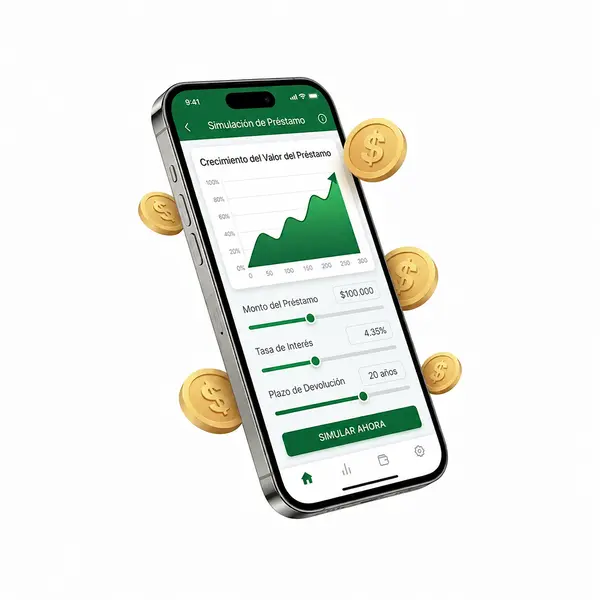
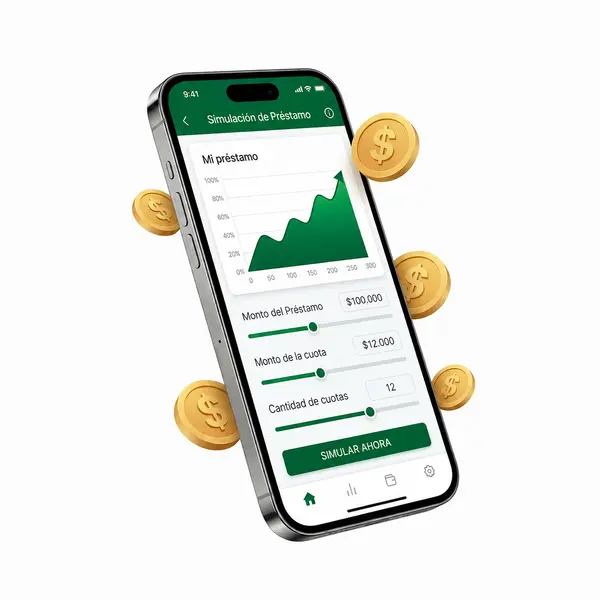
boton navbar condicionado para la ruta

Changed region(s): [[0.21, 0.09, 0.81, 0.93]]

diff --git a/src/Sections/Hero/HeroLoanSim.module.css b/src/Sections/Hero/HeroLoanSim.module.css
@@ -1,18 +1,18 @@
 .heroContainer {
-  padding: var(--spacing-xl) 15vh var(--spacing-md) 15vh;
+  padding: 0;
   display: flex;
-  flex-direction: row;
-  align-items: center;
-  justify-content: space-between;
-  background-color: var(--background-color);
-  min-height: 40vh;
+  flex-direction: column;
+  align-items: flex-start;
+  justify-content: center;
+  background-color: transparent;
+  min-height: auto;
   position: relative;
-  overflow: hidden;
+  overflow: visible;
 }
 
 .heroContent {
-  flex: 1.5;
-  max-width: 700px;
+  flex: none;
+  max-width: 100%;
   z-index: 2;
 }
 
@@ -58,15 +58,18 @@
 }
 
 .heroImageContainer {
-  flex: 0.5;
+  flex: none;
   display: flex;
-  justify-content: flex-end;
+  justify-content: center;
   position: relative;
   z-index: 1;
+  margin-top: var(--spacing-2xl);
+  width: 100%;
 }
 
 .heroImage {
-  width: 90%;
+  width: auto;
+  max-width: 100%;
   height: auto;
   max-height: 50vh;
   object-fit: contain;
@@ -84,7 +87,7 @@
 /* Responsive */
 @media screen and (max-width: 1200px) {
   .heroContainer {
-    padding: var(--spacing-xl) 5vh var(--spacing-md) 5vh;
+    padding: 0;
   }
 
   .heroContent h1 {
@@ -96,11 +99,11 @@
   .heroContainer {
     flex-direction: column;
     text-align: center;
-    padding: var(--spacing-2xl) 5vh;
+    padding: var(--spacing-md) 5vw 0;
   }
 
   .heroContent {
-    margin-bottom: var(--spacing-2xl);
+    margin-bottom: var(--spacing-md);
     max-width: 100%;
   }
 
@@ -121,14 +124,24 @@
 
 @media screen and (max-width: 576px) {
   .heroContent h1 {
-    font-size: 36px;
+    font-size: 28px;
+    margin-bottom: 8px;
   }
 
   .heroContent p {
-    font-size: 18px;
+    font-size: 15px;
+    margin-bottom: var(--spacing-sm);
   }
 
   .trustItem {
-    font-size: 14px;
+    font-size: 13px;
+  }
+
+  .heroImage {
+    max-height: 25vh;
+  }
+
+  .heroImageContainer {
+    margin-top: 0;
   }
 }

diff --git a/src/Components/Header/Header.jsx b/src/Components/Header/Header.jsx
@@ -131,11 +131,19 @@ const Header = () => {
       </nav>
 
       <div className='buttons-container'>
-        {pathname !== '/registro-simulador' && (
-          <a href='http://wa.me/5491137570853' target='_blank' rel='noopener noreferrer' aria-label="Quiero mi préstamo por WhatsApp">
-            <button className='primary-btn header-primary-btn'>Quiero mi préstamo</button>
-          </a>
-        )}
+        <a 
+          href={pathname === '/registro-simulador' 
+            ? 'http://wa.me/5491137570853?text=Hola!!%20Necesito%20ayuda%20para%20simular%20mi%20pr%C3%A9stamo!' 
+            : 'http://wa.me/5491137570853'
+          } 
+          target='_blank' 
+          rel='noopener noreferrer' 
+          aria-label={pathname === '/registro-simulador' ? "Solicitar ayuda por WhatsApp" : "Quiero mi préstamo por WhatsApp"}
+        >
+          <button className='primary-btn header-primary-btn'>
+            {pathname === '/registro-simulador' ? "Solicitar ayuda" : "Quiero mi préstamo"}
+          </button>
+        </a>
         <button className='btn-show-links' onClick={() => handleToggleNavbar(true)} aria-label='Abrir menú de navegación'>
           <FiMenu />
         </button>

diff --git a/src/screens/registrationSim/OnboardingFlowScreen.jsx b/src/screens/registrationSim/OnboardingFlowScreen.jsx
@@ -107,9 +107,12 @@ const OnboardingFlowScreen = () => {
     <>
       <Header />
       <main id='main-content'>
-        <HeroLoanSim />
-        <div className={styles.homeCalculator_calculatorBox}>
-          <div className={styles.calculatorContainer}>
+        <div className={styles.splitLayout}>
+          <div className={styles.leftColumn}>
+            <HeroLoanSim />
+          </div>
+          <div className={`${styles.homeCalculator_calculatorBox} ${styles.rightColumn}`}>
+            <div className={styles.calculatorContainer}>
             {shouldShowBackButton() && (
               <BackButton
                 onClick={navigateToPrev}
@@ -129,6 +132,7 @@ const OnboardingFlowScreen = () => {
               {renderStep()}
             </Suspense>
           </div>
+        </div>
         </div>
       </main>
       <Footer />

diff --git a/src/screens/registrationSim/OnboardingFlow.module.css b/src/screens/registrationSim/OnboardingFlow.module.css
@@ -3,7 +3,43 @@
   flex-direction: column;
   justify-content: center;
   background-color: var(--background-color);
-  min-height: 100vmin;
+  min-height: auto;
+}
+
+.splitLayout {
+  display: flex;
+  flex-direction: row;
+  align-items: center;
+  justify-content: center;
+  max-width: 1400px;
+  margin: 0 auto;
+  padding: 0 5vw;
+  gap: var(--spacing-xl);
+}
+
+.leftColumn {
+  flex: 1;
+  display: flex;
+  flex-direction: column;
+  justify-content: center;
+}
+
+.rightColumn {
+  flex: 1;
+  display: flex;
+  flex-direction: column;
+  justify-content: center;
+  padding: var(--spacing-xl) 5vh;
+}
+
+@media (max-width: 992px) {
+  .splitLayout {
+    flex-direction: column;
+    gap: var(--spacing-sm);
+  }
+  .rightColumn {
+    padding: 0 5vw var(--spacing-md);
+  }
 }
 
 .calculatorContainer {

diff --git a/src/screens/registrationSim/components/LeadRegistrationStep/LeadRegistrationStep.module.css b/src/screens/registrationSim/components/LeadRegistrationStep/LeadRegistrationStep.module.css
@@ -4,6 +4,9 @@
   margin: 0px;
   min-width: 100%;
   padding: var(--spacing-xl);
+  display: flex;
+  flex-direction: column;
+  justify-content: center;
 }
 
 .formTemplate {
@@ -237,10 +240,11 @@
 
 @media (max-width: 480px) {
   .formTemplateContainer {
-    min-height: 760px;
+    min-height: auto;
     width: 100%;
     margin: 0px;
     min-width: 100%;
     padding: var(--spacing-md);
+    justify-content: flex-start;
   }
 }
